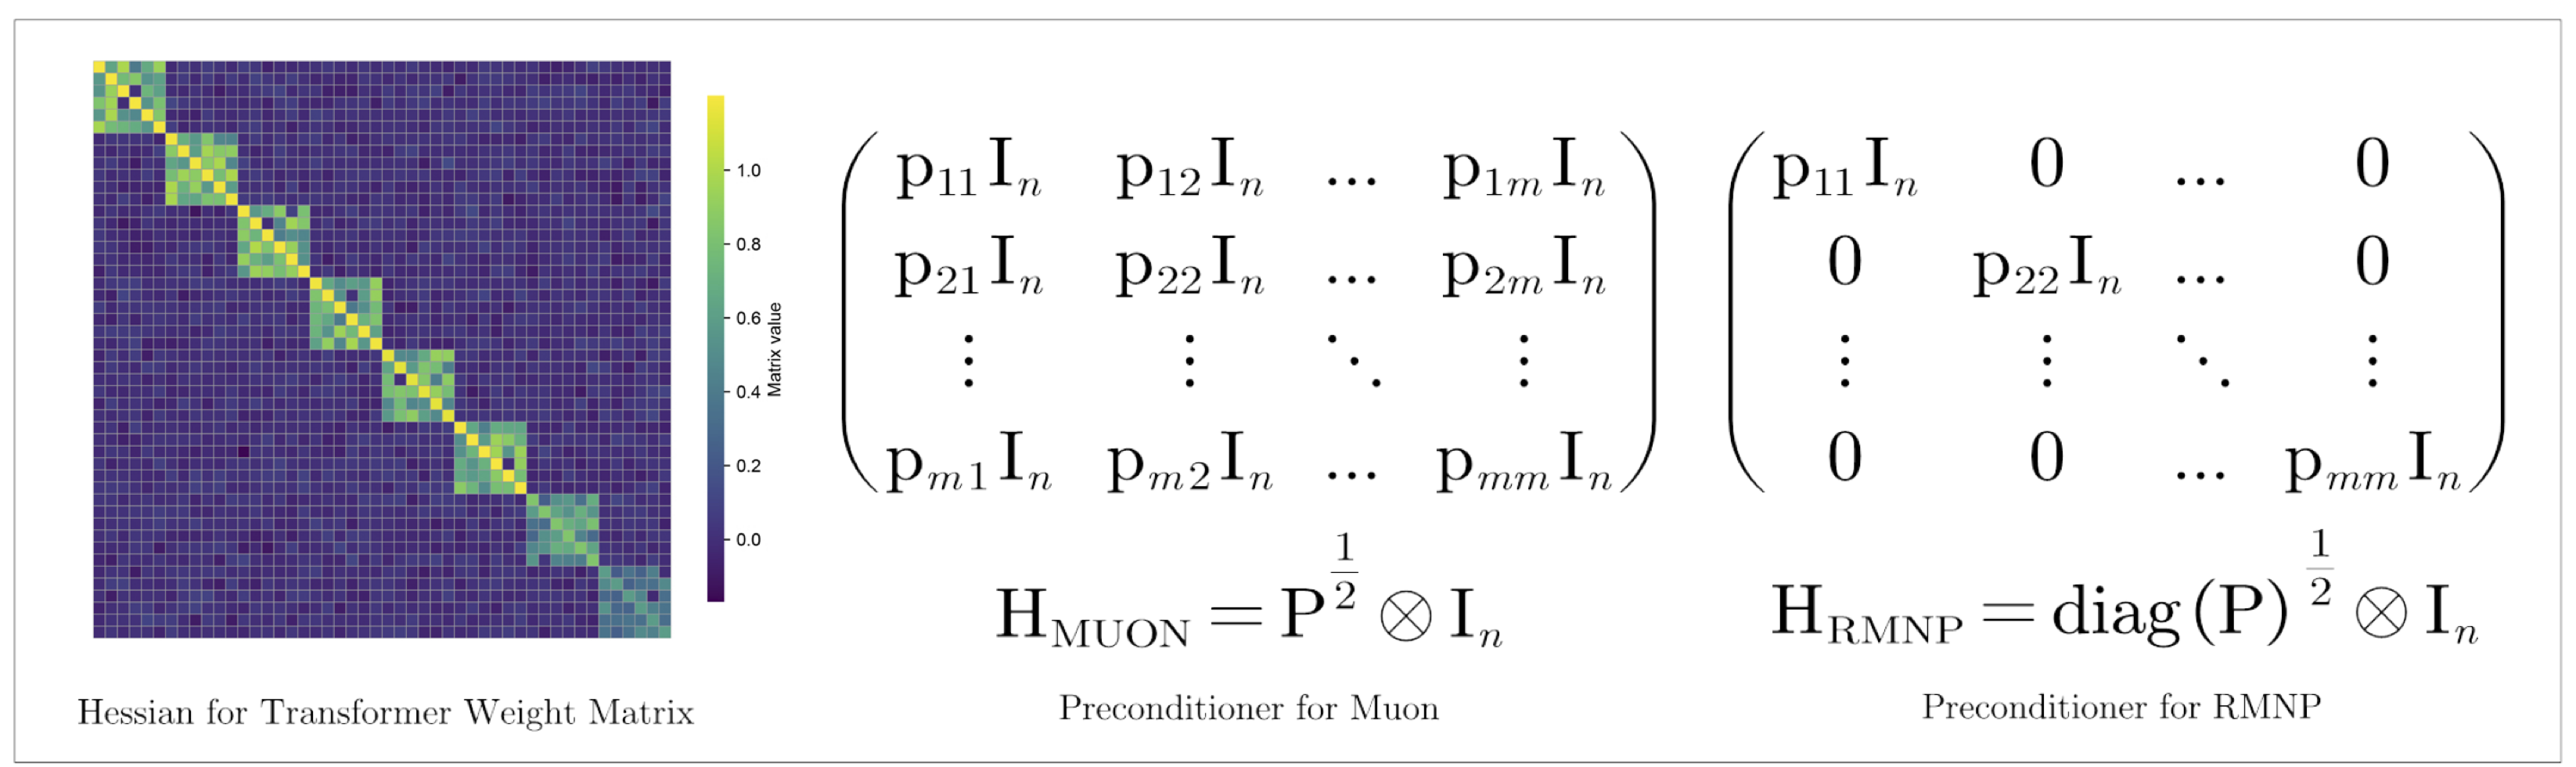
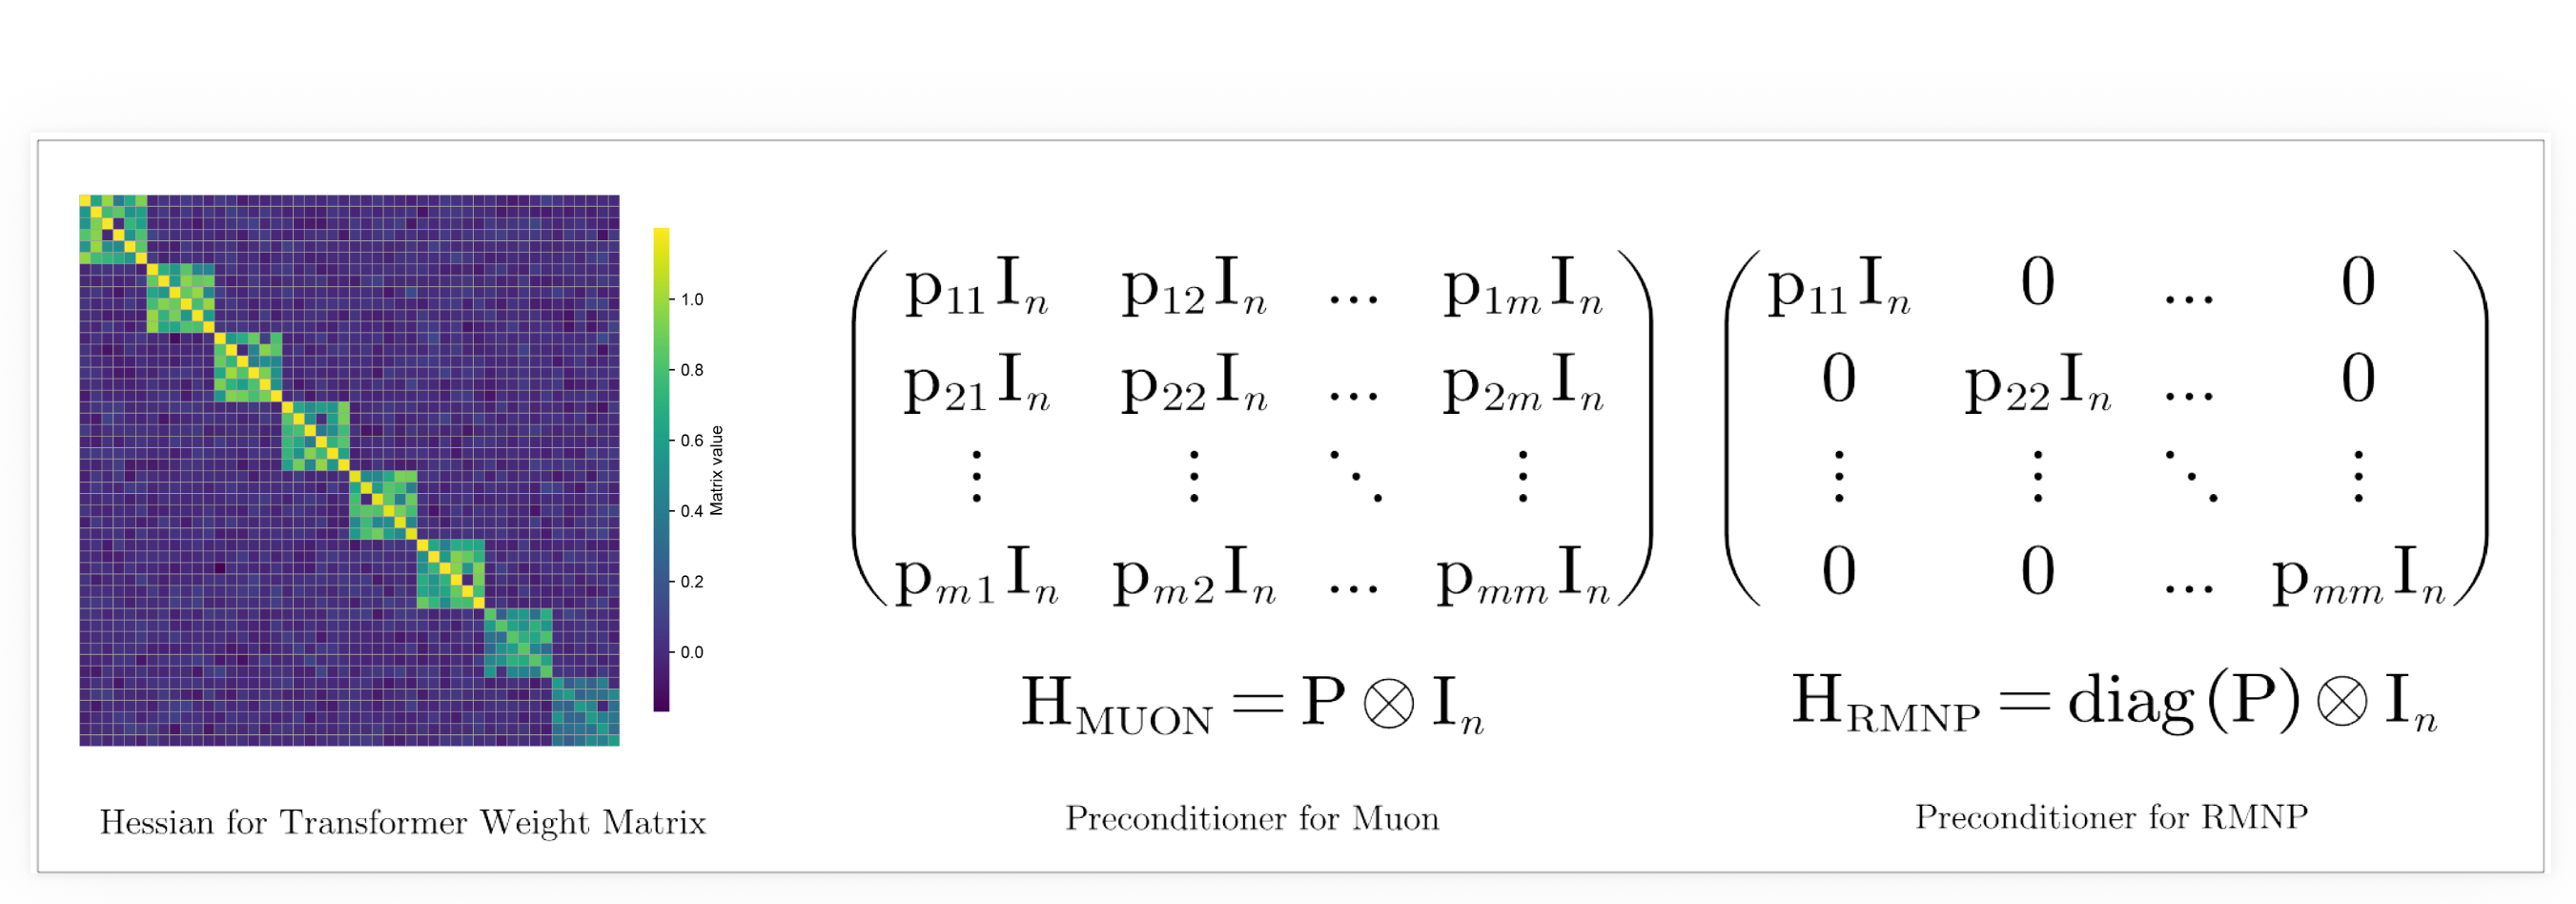
regular update

diff --git a/_pages/about.md b/_pages/about.md
@@ -88,7 +88,7 @@ My research interest includes neural machine translation and computer vision. I 
 <div class="news-scroll-wrapper">
 <div class="news-scroll" markdown="1">
 - *2026.05*: Our paper "Spectral Signature of Large Language Models" has been accepted at [KDD 2026](https://kdd2026.kdd.org/).
-- *2026.04*: Two papers accepted at [ICML 2026](https://icml.cc/): [**RMNP**](https://arxiv.org/abs/2603.20527) and [**RL4RLA**]().
+- *2026.04*: Two papers accepted at [ICML 2026](https://icml.cc/): [**RMNP**](#rmnp-paper) and [**RL4RLA**]().
 - *2026.04*: [**HTMuon**](#htmuon-paper) is accepted at [ACL 2026](https://2026.aclweb.org/).
 - *2026.02*: Excited to share our recent works bridging spectral analysis and ML: [**AutoSpec**](#autospec-paper) -- a neural network framework to discover iterative spectral algorithms for NLA and optimization; [**HTMuon**](#htmuon-paper) -- improving Muon via heavy-tailed spectral correction.
 - *2025.06*: Started my research engineer position at [ICSI](https://www.icsi.berkeley.edu/) to work on numerical algorithms and deep learning.
@@ -113,6 +113,21 @@ My research interest includes neural machine translation and computer vision. I 
 [**Paper**](https://arxiv.org/abs/2602.09530) \| [**Code**](https://github.com/zihanghliu/AutoSpec)
 
 **arXiv preprint**
+
+</div>
+</div>
+
+<span id="rmnp-paper"></span>
+<div class='paper-box'><div class='paper-box-image'><div><div class="badge">ICML 2026</div><img src='images/rmnp.png' alt="sym" width="100%"></div></div>
+<div class='paper-box-text' markdown="1">
+
+**RMNP: Row-Momentum Normalized Preconditioning for Scalable Matrix-Based Optimization**
+
+[Shenyang Deng](https://dsyforever.github.io/)\*, [Zhuoli Ouyang](https://github.com/Dominator-Index)\*, [Tianyu Pang](https://tdcsz327.github.io/), **Zihang Liu**, [Ruochen Jin](https://scholar.google.com/citations?user=4UCvea0AAAAJ&hl=zh-CN), [Shuhua Yu](https://shuhuayu.github.io/), [Yaoqing Yang](https://sites.google.com/site/yangyaoqingcmu/)
+
+[**Paper**](https://arxiv.org/abs/2603.20527) \| [**Code**](https://github.com/Dominator-Index/RMNP) \| [**Blog**](https://dsyforever.github.io/blog/normalization-orthogonalization/)
+
+**ICML 2026**
 
 </div>
 </div>